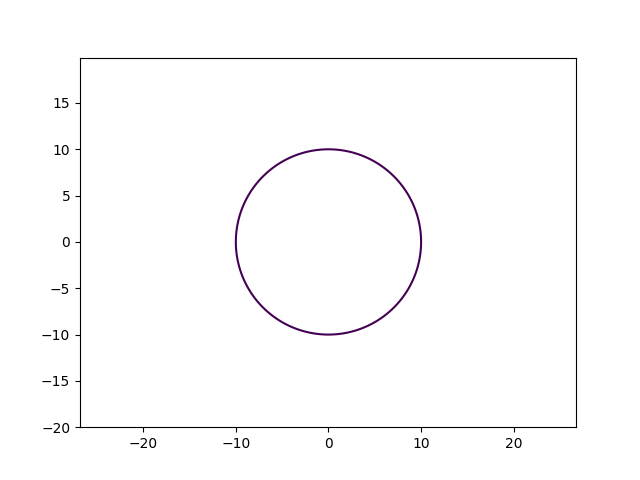
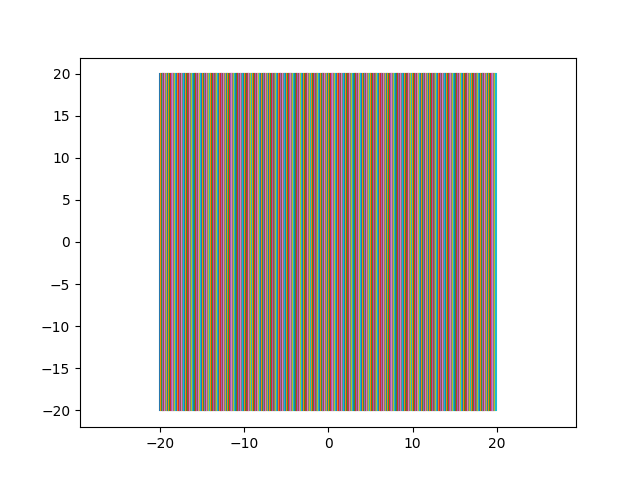
делал задачи

diff --git a/task_2.py b/task_2.py
@@ -2,13 +2,16 @@ import matplotlib.pyplot as plt
 import numpy as np
 
 def parabola(dX=5, N=1):
-    x = np.arange(-dX, dX+1, (dX*2) / N)
-    y = x**2
+    xm = np.arange(dX * (-1), -0.01, dX / N)
+    xp = np.arange(0.01, dX, dX / N)
+    ym = 0.5/xm
+    yp = 0.5/xp
 
-    plt.plot(x, y)
+    plt.plot(xm, ym)
+    plt.plot(xp, yp)
     plt.savefig('task_2.png')
 
 if(__name__ == '__main__'):
     dX = int(input('Введите предел изменения переменной x: '))
-    N = int(input('Введите количество точек, разбивающий параболу: '))
+    N = float(input('Введите количество точек, разбивающий параболу: '))
     parabola(dX, N)

diff --git a/task_3.py b/task_3.py
@@ -3,12 +3,12 @@ import numpy as np
 
 def ellipse(dX=5, N=1):
     dY = 5
-    x = np.arange(-2*dX, 2*dX, 0.1)
-    y = np.arange(-2*dY, 2*dY, 0.1)
+    x = np.arange(-dX, dX+1, 0.1)
+    y = np.arange(-dY, dY+1, 0.1)
 
-    X, Y = np.meshgrid(x, y)
+    X, Y = np.meshgrid(x, y )
 
-    fxy = X**2 + Y**2 - dX**2
+    fxy = (X**2)/(2**2) + (Y**2)/(1**2)
 
     plt.contour(X, Y, fxy, levels=[1])
     plt.axis('equal')

diff --git a/lec_unplisive_plot.py b/lec_unplisive_plot.py
@@ -7,10 +7,10 @@ def circle_plotter(R=10):
     y = np.arange(-2*R, 2*R, 0.1)
 
     X, Y = np.meshgrid(x, y)
-
+    plt.plot(X, Y)
     fxy = X**2 + Y**2 - R**2
 
-    plt.contour(X, Y, fxy, levels=[0])
+    #plt.contour(X, Y, fxy, levels=[0, 10, 20])
     plt.axis('equal')
 
     plt.savefig('fig_4.png')
